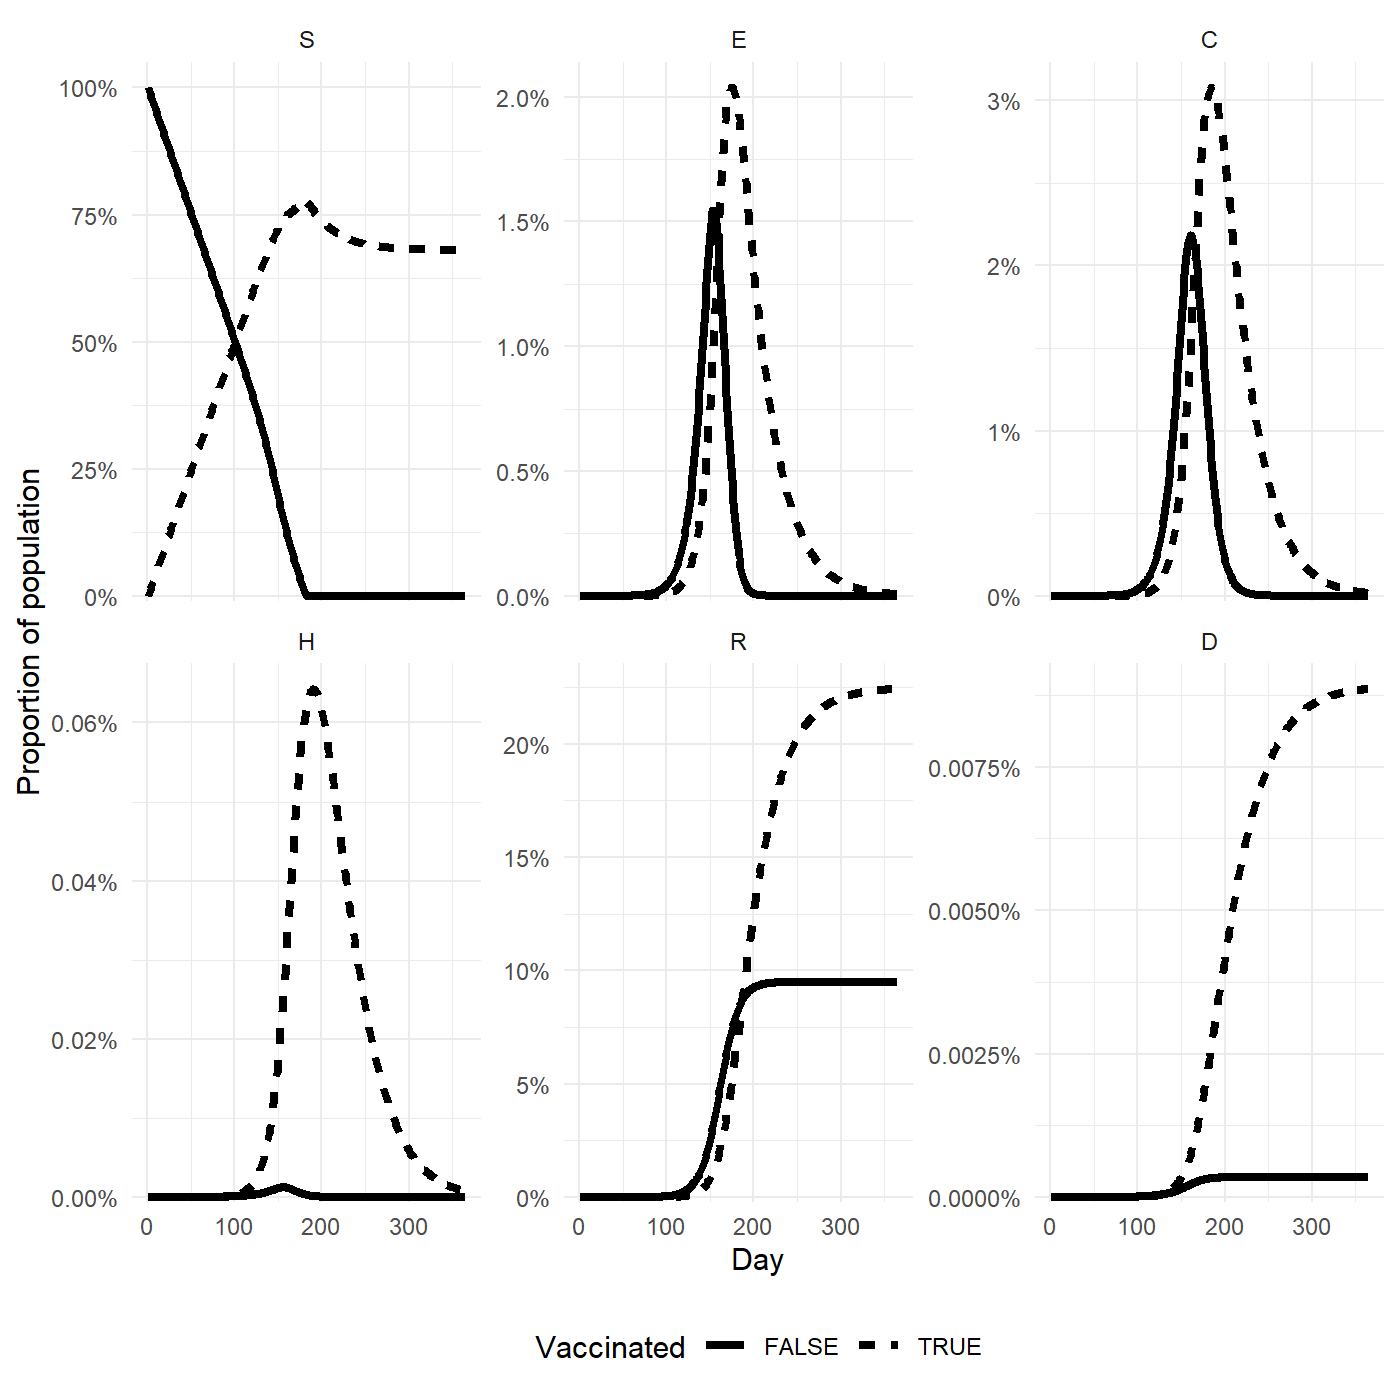
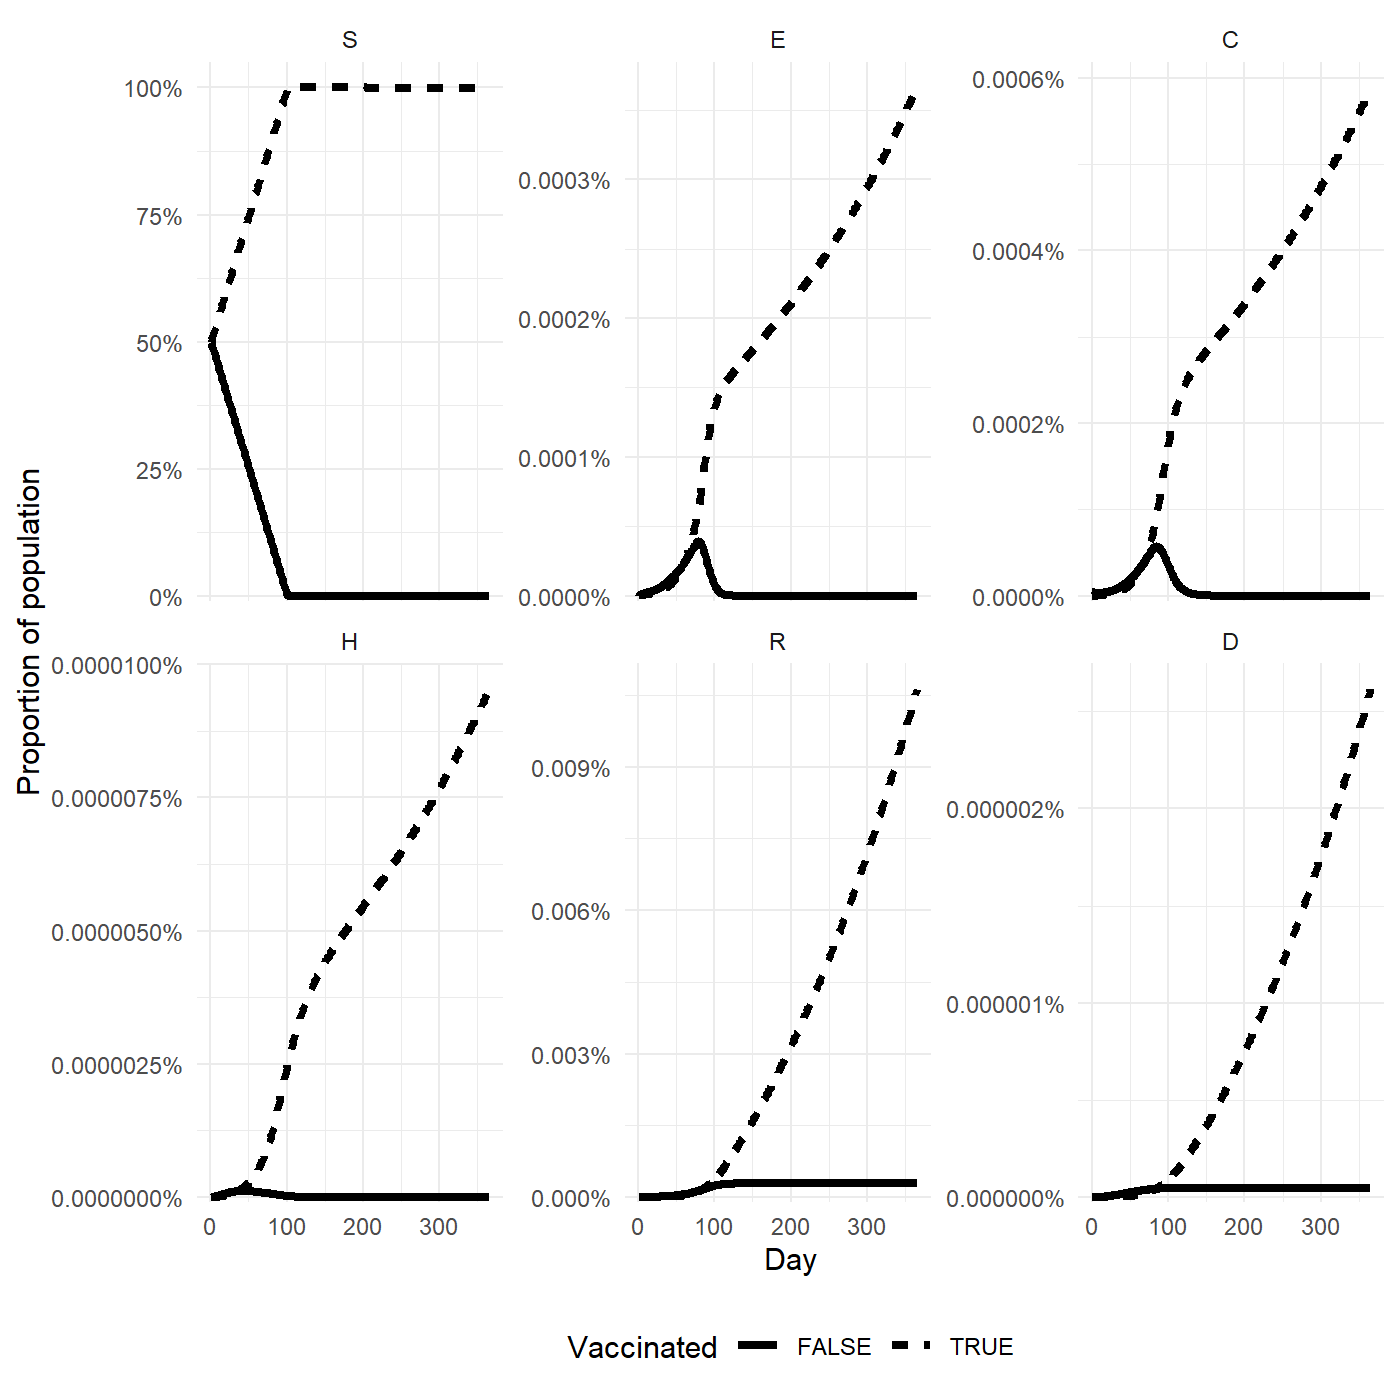
updated vignette

diff --git a/README.md b/README.md
@@ -298,17 +298,11 @@ assigned to the vaccinated compartment.
 
 ```r
 ## extract starting point from previous run
-state <- unname(output$prevalence[1,,])
+state <- output$prevalence[1,,]
 
 ## assign half of susceptibles to vaccinated
 state[,"S_u"] <- state[,"S_v"] <- state[,"S_u"]/2
-```
 
-```
-## Error in state[, "S_u"]: no 'dimnames' attribute for array
-```
-
-```r
 ## run model
 output <- run_model(pars, init_state = state)
 
